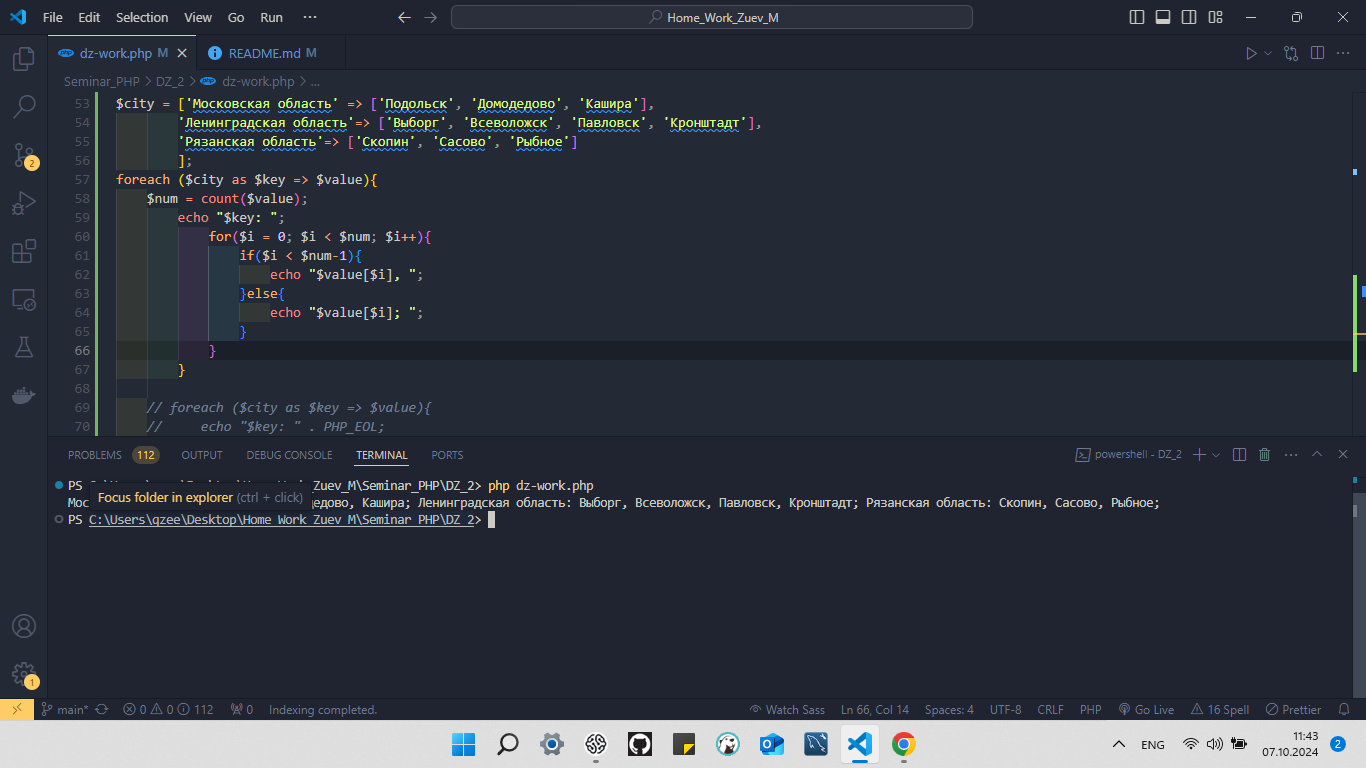
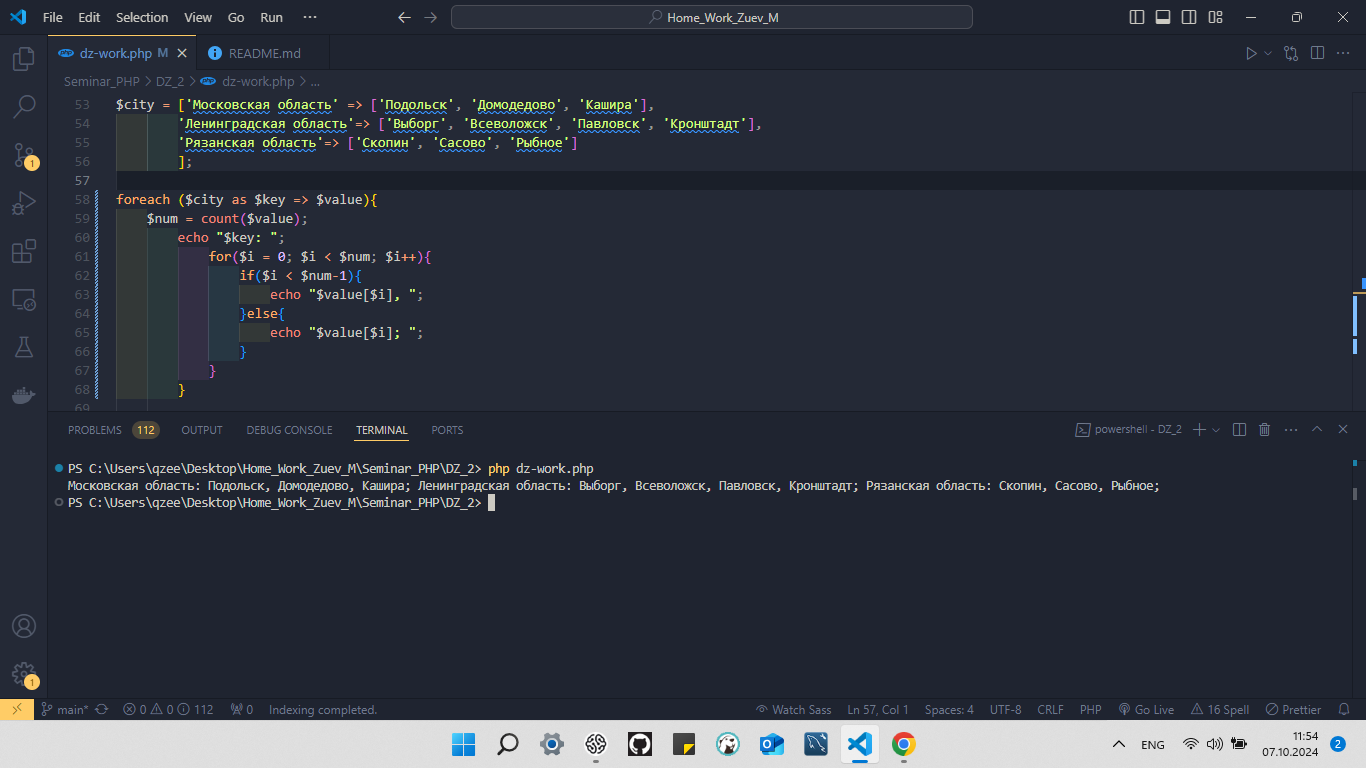
Task_3 complete

diff --git a/Seminar_PHP/DZ_2/dz-work.php b/Seminar_PHP/DZ_2/dz-work.php
@@ -55,19 +55,19 @@ $city = ['Московская область' => ['Подольск', 'Домо
         'Рязанская область'=> ['Скопин', 'Сасово', 'Рыбное']
         ];
 
-    foreach ($city as $key => $value){
-        echo "$key: " . PHP_EOL;
-        print_r($value);
-    }
+foreach ($city as $key => $value){
+    $num = count($value);
+        echo "$key: ";
+            for($i = 0; $i < $num; $i++){
+                if($i < $num-1){
+                    echo "$value[$i], ";
+                }else{
+                    echo "$value[$i]; ";
+                }
+            }
+        }
 
-// foreach ($city as $key => $value){
-//     $num = count($value);
-//         echo "$key: ";
-//             for($i = 0; $i < $num; $i++){
-//                 if($i < $num-1){
-//                     echo "$value[$i], ";
-//                 }else{
-//                     echo "$value[$i]; ";
-//                 }
-//             }
-//         }
+    // foreach ($city as $key => $value){
+    //     echo "$key: " . PHP_EOL;
+    //     print_r($value);
+    // }
